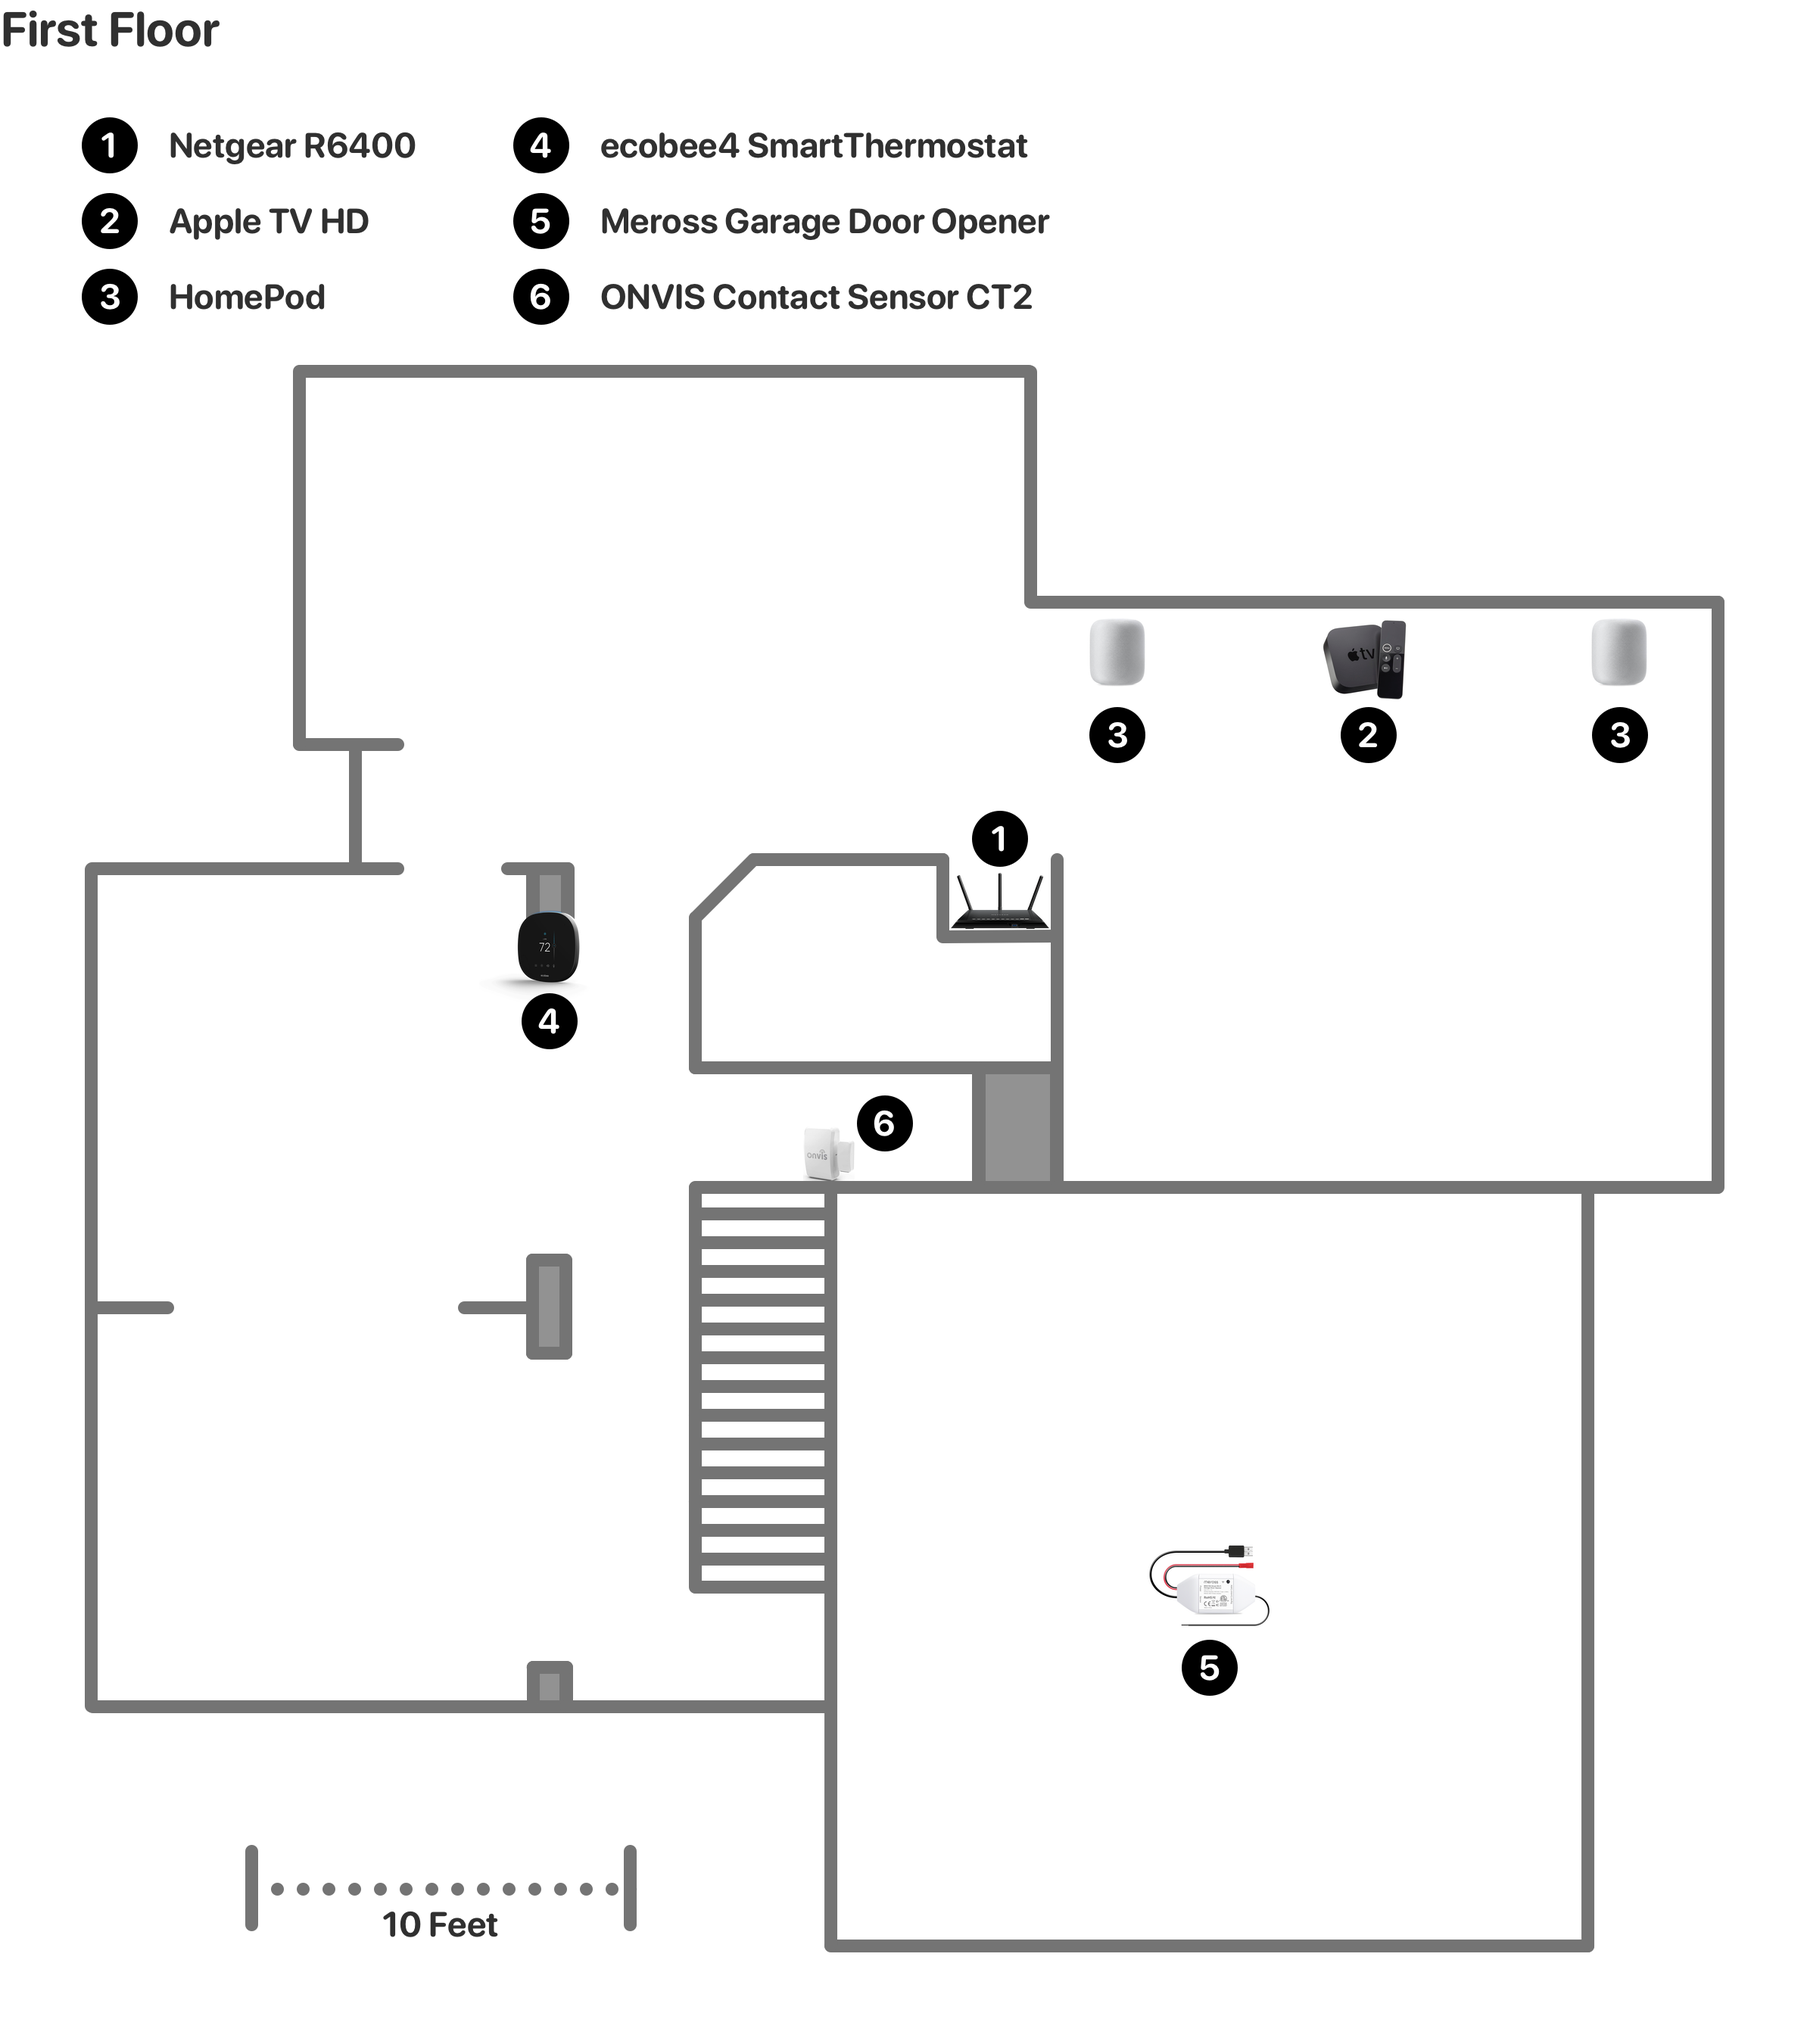
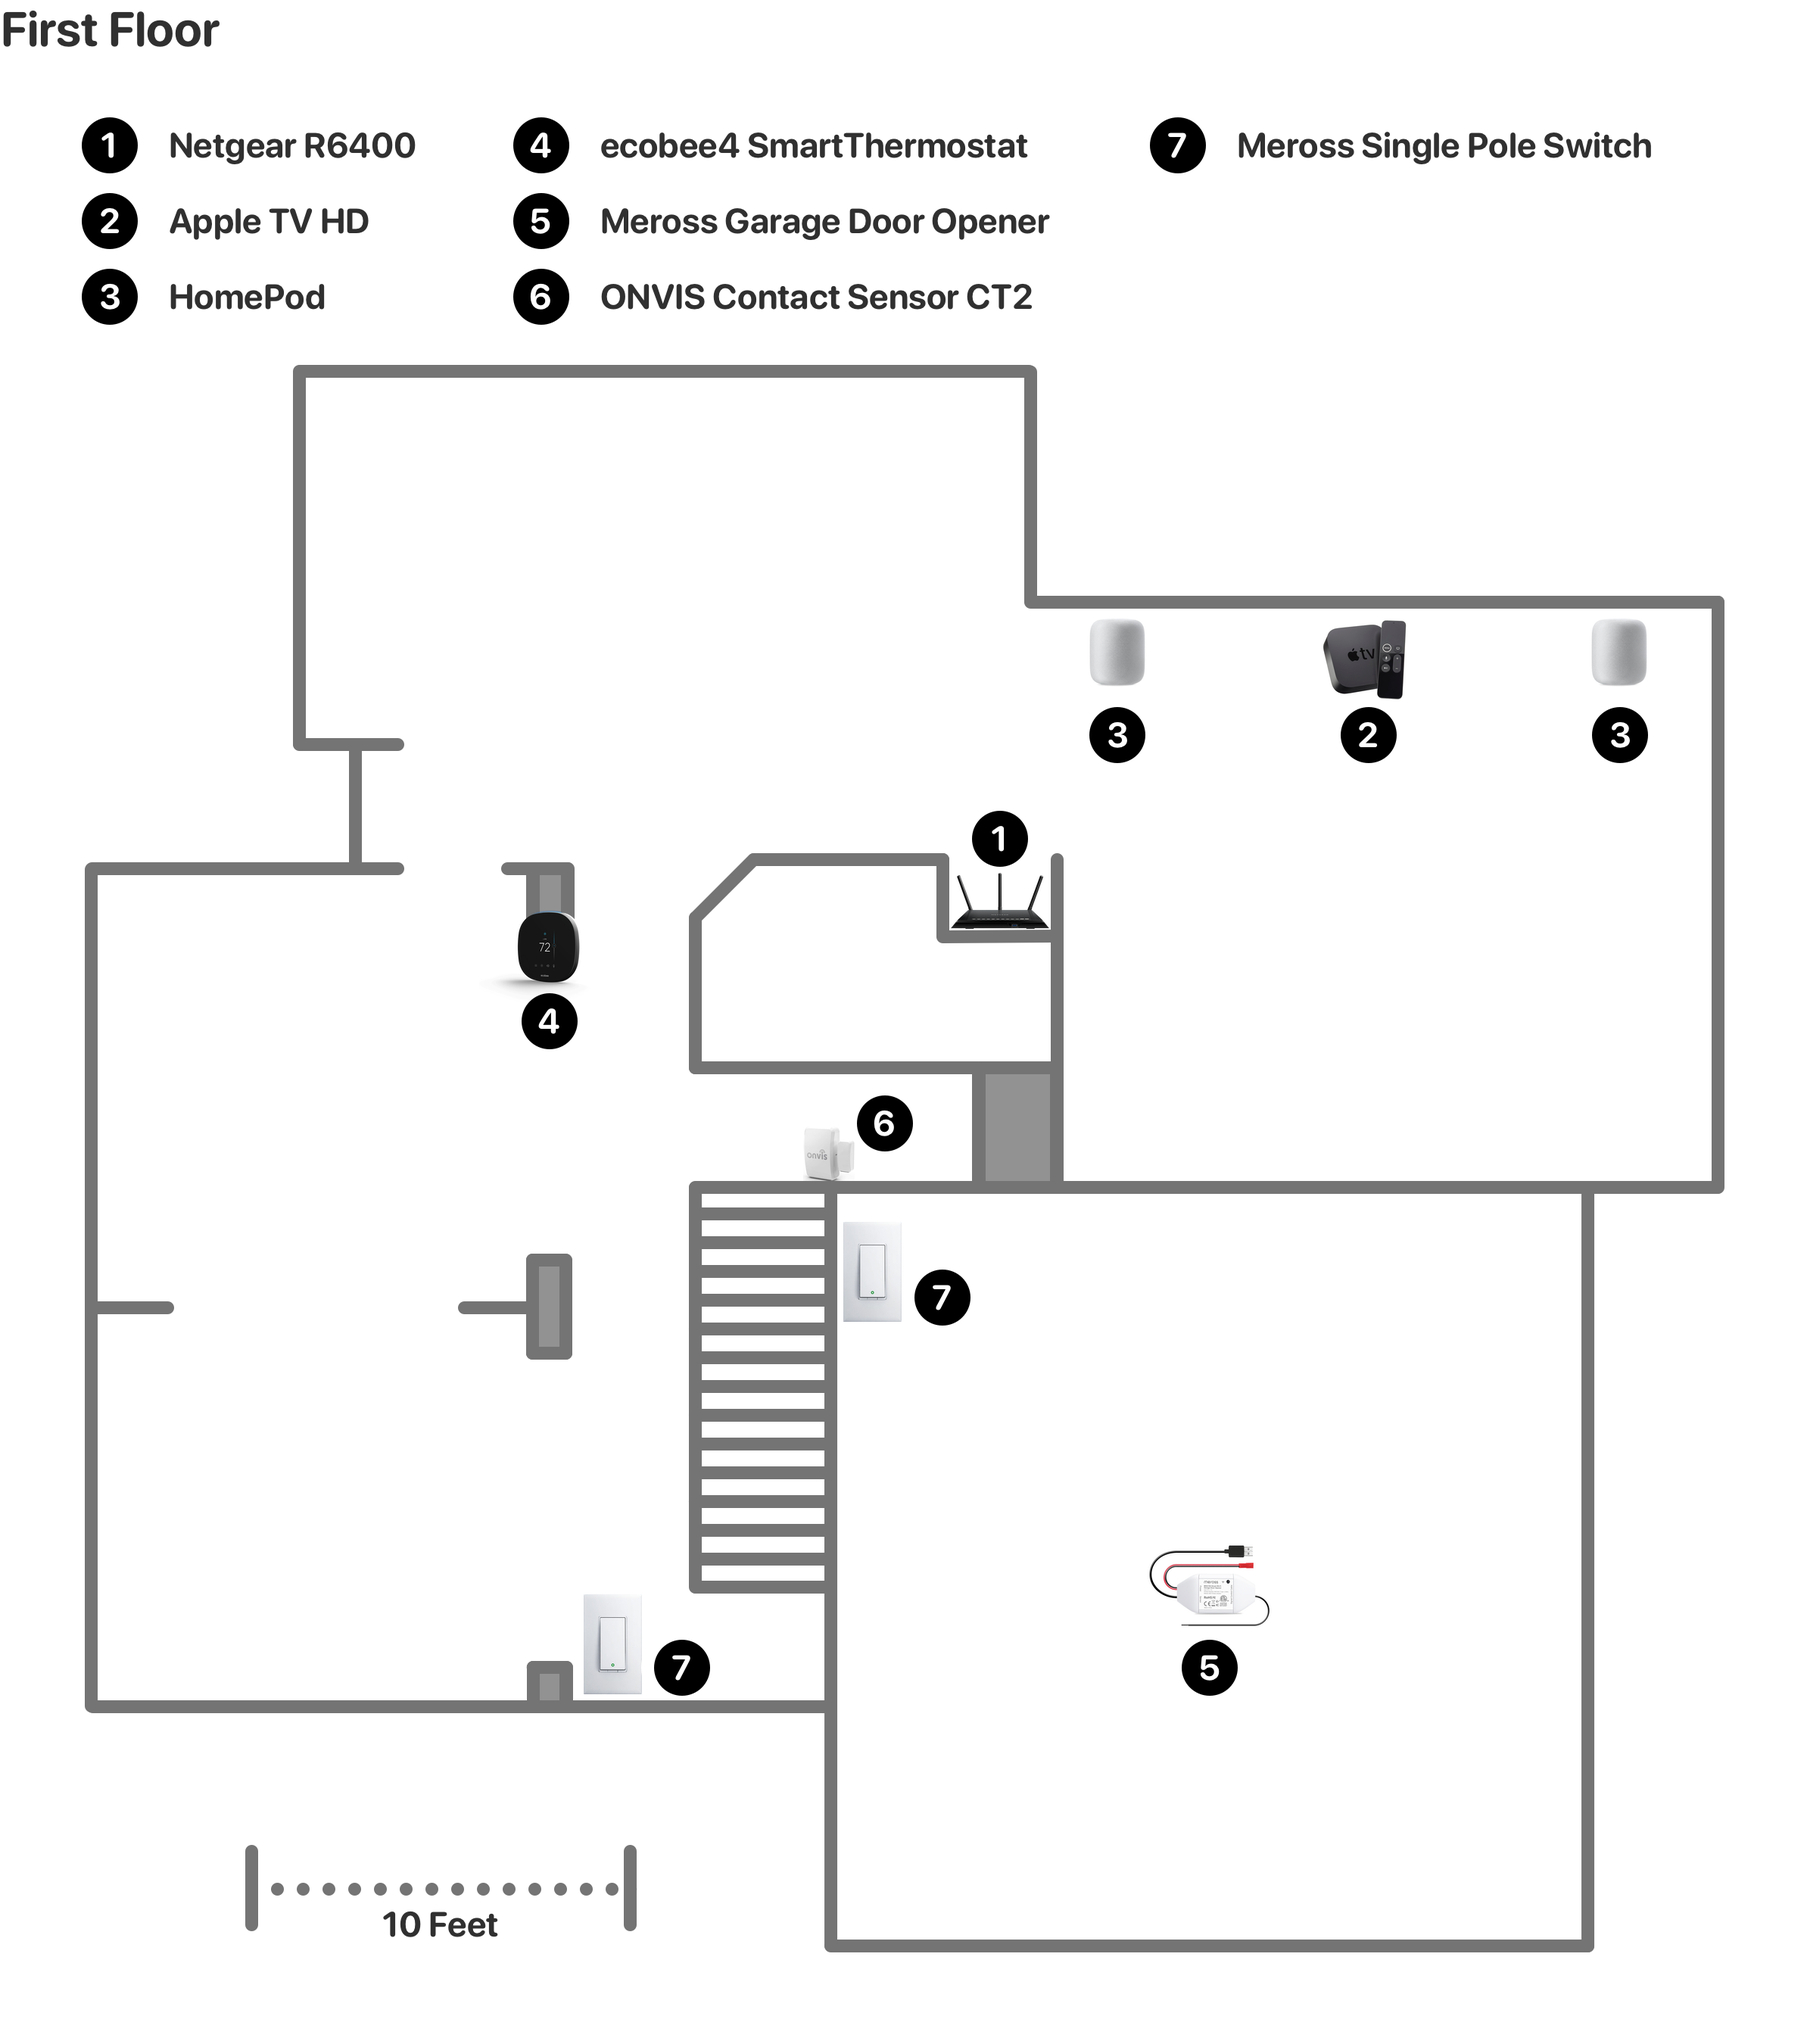
First crack at the Meross switch article

Changed region(s): [[0.62, 0.0622, 0.899, 0.0933], [0.31, 0.7778, 0.403, 0.84], [0.465, 0.5911, 0.558, 0.6533]]

diff --git a/2021-07-11-light-the-night-with-meross-switches.md b/2021-07-11-light-the-night-with-meross-switches.md
@@ -1,0 +1,69 @@
+Light the Night with Meross Switches
+
+---
+layout: post
+title: "HomeKit Build & Review: Light the Night with Meross Switches"
+excerpt: "After automating my garage door and adding lights to my basement I thought my HomeKit hobby was winding down. How wrong I was."
+---
+
+## Night Time is the Right Time
+
+With the addition of a smart garage door opener and some smart bulbs to light up my previously dark basement, I thought I had found the end of practical HomeKit additions to my home. It turns out that conviction wasn’t terribly strong; when I texted my good friend Andrew and relayed that exact sentiment he said, “You know, my outdoor lights come on before sunset and that seems like a practical automation.” Ten minutes later I had a new Amazon box coming to my house and a hobby that was nowhere near done.
+
+![iMessage with Andrew convincing me to buy more HomeKit gear](/assets/images/meross-switch-imessage.png)
+
+## Convenience, Automated
+
+The idea of automating my outdoor lights certainly appealed to me, but the problem I was looking to solve was one of convenience. Every night my wife or I would go to two separate switches in two different parts of the house and turn on the outdoor lights. A few hours later around bed time we’d go and turn those same lights off. Sometimes we’d forget to turn them off and I’d find the lights still on in the morning, or sometimes we’d arrive home in the evening after being away all day and pull up to a dark house. 
+
+This is all well within “first world problem” territory, of course, but with some relatively inexpensive switches I could automate all of these issues away. And so I did.
+
+## The Accessories
+
+My experience with the Meross (rhymes with Harris) garage door opener made these Meross Smart Wi-Fi Single Pole Switches an appealing option. They are highly rated and well within my budget for HomeKit experimentation. I bought two, one for the front hallway and one for the garage to control the two pairs of outdoor lanterns on the front of our house.
+
+I didn’t need a dimmer switch — on/off is just fine for outside lights — nor did I need to change the color or temperature of the bulbs. Simple, smart switches were exactly right.
+
+![House layout, first floor](/assets/images/home-layout-first-floor.png)
+
+## The Good
+
+Assuming you're comfortable with minor electrical work, installing these new switches is a pretty straightforward operation. The packaging was clean, the quality of the switches themselves seemed high, and the HomeKit setup was fast and straightforward.
+
+The button itself, while fashioned to look like a rocher swtich, is a simple push button with a satisfying click. Truth be told though, I don't think I've manually turned these lights on more than once or twice since installing them as they are fully automated.
+
+I did add them to the Meross app after adding them to my home in HomeKit so I could check for firmware updates. The Meross app takes quite a while before new accessories appear, and it's not the nicest looking app in the world, but it's worth going through it to keep your hardware up to date.
+
+The other thing I noticed about these switches is that they handle power failures with ease, reconnecting to the network with no trouble. It's worth noting that these switches fail to the off position, meaning that after a power outage these switches will not turn all your lights on when power is restored.
+
+
+## The Not So Good
+
+I like almost everything about these switches, but there were just a couple dings against them. For one, there was no HomeKit QR code, just the eight digit code printed on the face of the switch. I would have expected to see a HomeKit QR in the packaging on the instructions, but it wasn't there either. The other thing I've noticed is that every so once in a while these switches will show as unresponsive. It's not enough to be a bother and it doesn't seem to interfere with the automations, but it is something I've seen.
+
+## Automations
+
+The automation that I set up with these switches were pretty straightforward:
+
+* Turn on at sunset.
+* Turn off at 11:00 PM.
+* Turn off again at 2:00 AM in case we came home late.
+* Turn on when anyone arrives home at night.
+
+## Conclusion
+
+These switches were an absolute win and are another great entry point for someone new to HomeKit. If you’re just getting started building out your smart home I’d highly recommend giving these a try. They’re well-made, inexpensive, and reliable.
+
+Beyond that, they follow my rules for new accessories:
+
+1.  They can still be controlled via physical controls.
+2.  They are practical, an enhancement that actually make sense.
+
+## Further Reading
+
+* [Meross Smart Light Switch at HomeKit News](https://homekitnews.com/2020/04/24/meross-smart-light-switch/)
+* [Best HomeKit Light Switches at iMore](https://www.imore.com/best-homekit-light-switches)
+* [The Best In-Wall Smart Light Switch and Dimmer at Wirecutter](https://www.nytimes.com/wirecutter/reviews/best-in-wall-wireless-light-switch-and-dimmer/)
+* [meross.com](https://www.meross.com/)
+* [meross Smart Light Switch, Compatible with Apple HomeKit at Amazon](https://www.amazon.com/gp/product/B088NQMN5Z)
+* [Meross E-mail Support](mailto:support@meross.com)
